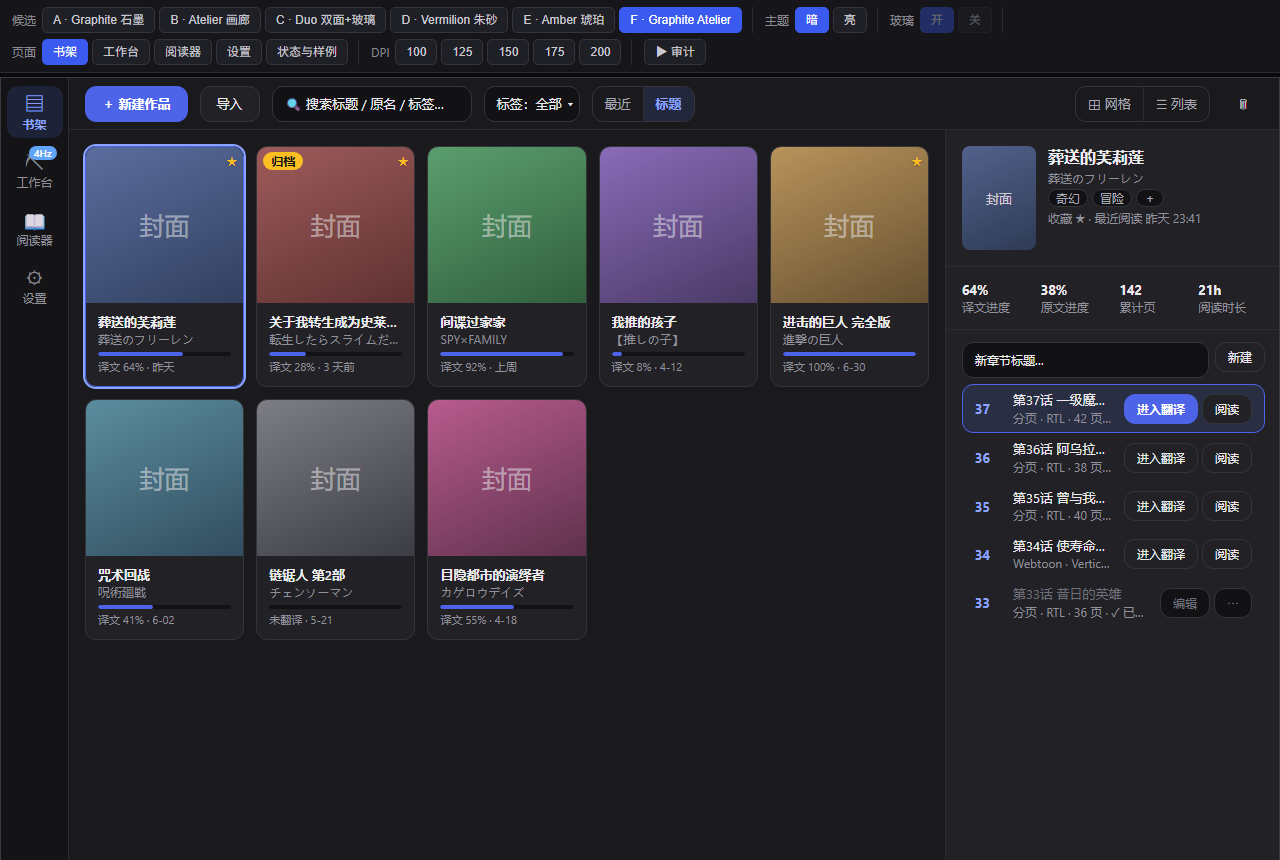
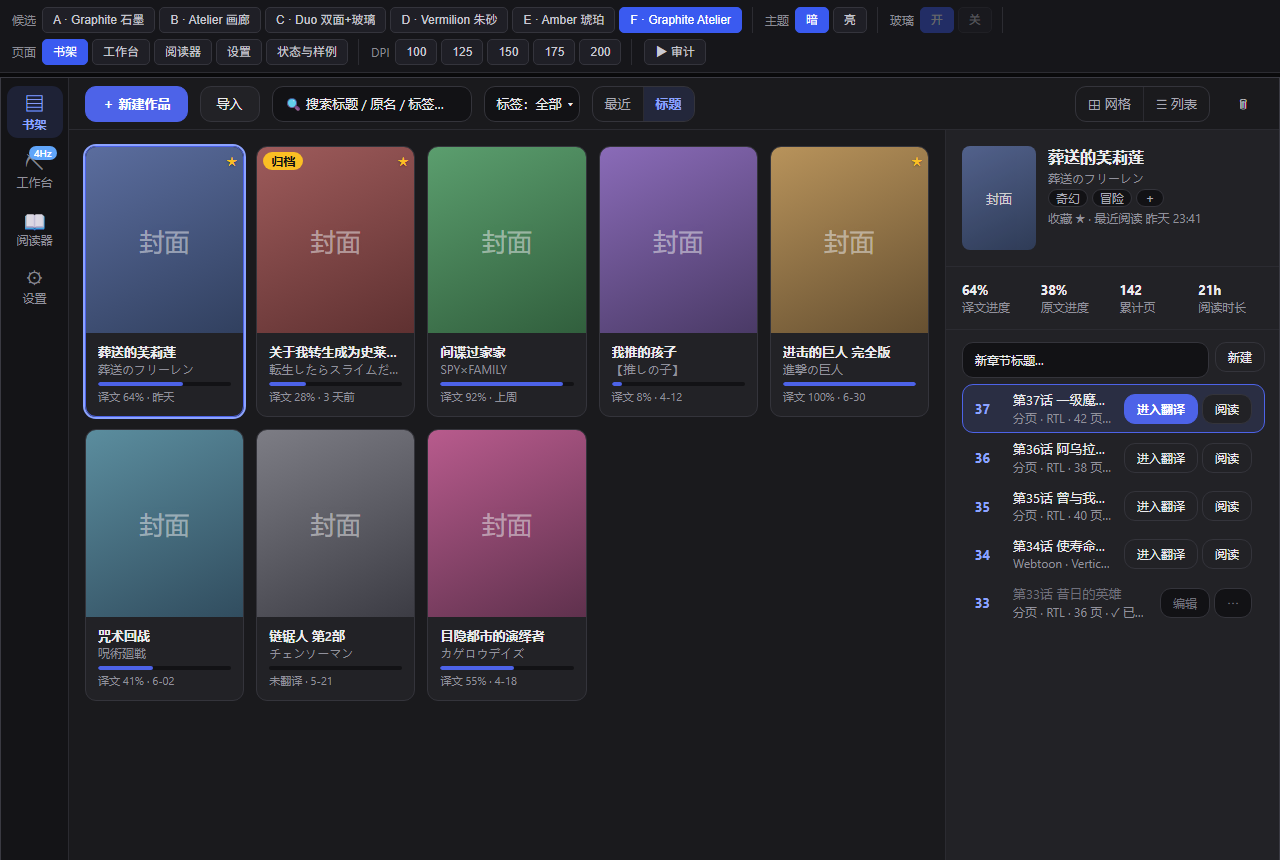
docs(TASK-059): R5 返修收 Review 04743a8 R4-001~R4-003（保持 in_review）
- R4-001: F 的 --card-w 132px→158px（B 档；IA 仅指浏览结构，书架单级仍继承 A）
- R4-001: export-tokens.py 将 card-w 并入 geometry（20→21 项），tokens-cand-{a..f}.json 全部重导，几何相等断言覆盖 card-w（F=A palette+B geometry incl card-w: OK）
- R4-002: 补 f-light-bookshelf.png，F 书架/工作台均有暗/亮两主题证据（截图 49→50）
- R4-003: export-tokens.py docstring 统一 {a..f}；判别脚本头改三个检测；删除 geom_sel 死变量
- 全量重跑：60 组合 ALL PASS（F 24/24，AUDIT_EXIT=0）；D1/D2/D3 全 FAIL（DISCRIM_EXIT=0）
- 契约更新：版本行 R5、§1/§6C 21 项口径、§11 切片映射、§14 DDR-10、§15 50 张清单
- Task/Handoff/STATUS 同步；src/**、tests/** 零改动；未 push

diff --git a/doc/design/ui-reference.html b/doc/design/ui-reference.html
@@ -439,7 +439,7 @@ body {
 [data-cand="c"] { --card-w:148px; }
 [data-cand="d"] { --card-w:150px; }
 [data-cand="e"] { --card-w:132px; }
-[data-cand="f"] { --card-w:132px; }  /* F 的书架 IA 继承 A（ND-1：不继承 B 的章节大卡） */
+[data-cand="f"] { --card-w:158px; }  /* ND-1：比例大小按 B，card-w 属几何随 B（Review R4-001）；书架 IA（单级浏览）仍继承 A */
 .bcard {
   border-radius:var(--rad-md); border:1px solid var(--border); background:var(--bg-panel);
   overflow:hidden; cursor:pointer; position:relative;

diff --git a/verification/TASK-059/export-tokens.py b/verification/TASK-059/export-tokens.py
@@ -1,7 +1,7 @@
 #!/usr/bin/env python3
 """TASK-059: 从 doc/design/ui-reference.html 导出机器可读令牌副本。
 
-HTML 是唯一视觉真值；本脚本生成 doc/design/tokens-cand-{a,b,c,d,e}.json。
+HTML 是唯一视觉真值；本脚本生成 doc/design/tokens-cand-{a..f}.json（六候选）。
 两者不一致时以 HTML 为准，重新运行本脚本即可再生成。
 用法：python verification/TASK-059/export-tokens.py
 """
@@ -44,11 +44,6 @@ def split_tokens(raw: dict) -> tuple[dict, dict]:
 
 def main() -> int:
     css = HTML.read_text(encoding="utf-8")
-    geom_sel = {
-        "a": '[data-cand="a"] {',
-        "b": '[data-cand="b"] {',
-        "c": '[data-cand="c"] {',
-    }
     # 密度块选择器与主题块共享前缀，用“不接 [data-mode”的锚定区分
     geom = {}
     for c in "abcdef":
@@ -60,6 +55,14 @@ def main() -> int:
             raise SystemExit(f"geometry block not found for {c}")
         geom[c] = {k: v.strip() for k, v in
                    re.findall(r"--([\w-]+)\s*:\s*([^;]+);?", ms[0].group(1))}
+        # card-w 定义在独立的单属性小方块（不含 --fs-base），单独提取后并入
+        # geometry，使 JSON 几何相等断言覆盖 card-w（Review R4-001）
+        cs = [m for m in pat.finditer(css)
+              if "--card-w" in m.group(1) and "--fs-base" not in m.group(1)]
+        if not cs:
+            raise SystemExit(f"card-w block not found for {c}")
+        geom[c]["card-w"] = re.findall(
+            r"--card-w\s*:\s*([^;]+);?", cs[0].group(1))[0].strip()
 
     for c in "abcdef":
         modes = {}

diff --git a/doc/tasks/TASK-059.md b/doc/tasks/TASK-059.md
@@ -39,9 +39,9 @@ integration_commit: null
 - [x] **AC ①（正面回答否决理由）**：逐条写清本轮如何回答 **R-1（视觉方向）/ R-2（布局与信息架构）/ R-3（太保守、没超出基线）**；不得只做措辞回应——每条的答案必须能在 AC ② 的候选方向里被指认。→ [契约](../contracts/UI_UX_GUI_DESIGN.md) §2，逐条指认到候选。
 - [x] **AC ②（2–3 个彼此不同的候选方向）**：交付 **2–3 个**候选，每个含：① 角色定位（服务谁、什么场景优先）② 完整令牌表（色彩/字号/间距/圆角/阴影，亮+暗）③ **至少 3 个页面**的关键视图（书架/工作台/阅读器或设置中的至少三个）④ 信息架构与页面内分区说明 ⑤ **代价与取舍**（实现成本、与现有 ViewModel 接口的冲突面、可访问性代价）。候选之间必须**在视觉语言或 IA 上有实质差异**（不是同一方案的三种密度）。→ A/B/C 三候选（契约 §3–§6 + `tokens-cand-*.json` + 每候选 5 页视图截图）；差异维度＝主题气质/密度/强调色/玻璃材质/书架 IA（C 两级浏览）/工作台 Inspector 层级（A 译文置顶）。**R2 增补（用户 2026-09-19 指示「再增加两种完全不一样的设计」，候选数 3→5）**：D 朱砂（顶栏导航+编辑部印刷，§6A）、E 琥珀（等宽表格+命令面板，§6B）——范式级差异。**R4 增补（用户 ND-1 裁决组合稿，候选数 5→6，DDR-9）**：F · Graphite Atelier（组合候选：A 色彩逐字面值 + B 几何逐项，IA 继承 A 不取 B 章节大卡；契约 §6C，ND-1 已选方向）。
 - [x] **AC ③（可打开的离线参考）**：每个候选都要有**可离线打开**的参考（单文件 HTML 或图片集），可被标注与截图；**允许复用** TASK-047 的标注回路与自检脚本（语法门/引用核对/无头截图+对比度审计）——**作为工具，不作为结论**。→ `doc/design/ui-reference.html` 单文件（评审 chrome 切换候选/主题/玻璃/DPI/页面/审计）；工具思路复用、方案内容零复用。
-- [x] **AC ④（硬事实沿用或显式推翻）**：DPI/最小窗口组合、文本对比度 ≥4.5:1、CJK 长文本与截断、状态矩阵（空/加载/错误/运行/未保存）、键盘可达性：要么沿用 TASK-047 §10 的量化结论，要么**显式推翻并给新证据**。→ 契约 §12 对照表：硬事实沿用、ui-baseline 色板作为目标方向显式推翻（授权内）；对比度 50 组合 × 22 对全 PASS（R2 含 2 处审计驱动修正；R3 补徽标真实合成底口径后统一加深亮色状态文字令牌，见契约 §7.2）；R4 组合候选 F 按 ND-1 重做全套审计：60 组合（6 候选 × 2 主题 × 5 视图）全 PASS，F 含 R3-001 扩展 2 对共 24 对（契约 §6C/§7.2）。
+- [x] **AC ④（硬事实沿用或显式推翻）**：DPI/最小窗口组合、文本对比度 ≥4.5:1、CJK 长文本与截断、状态矩阵（空/加载/错误/运行/未保存）、键盘可达性：要么沿用 TASK-047 §10 的量化结论，要么**显式推翻并给新证据**。→ 契约 §12 对照表：硬事实沿用、ui-baseline 色板作为目标方向显式推翻（授权内）；对比度 50 组合 × 22 对全 PASS（R2 含 2 处审计驱动修正；R3 补徽标真实合成底口径后统一加深亮色状态文字令牌，见契约 §7.2）；R4 组合候选 F 按 ND-1 重做全套审计：60 组合（6 候选 × 2 主题 × 5 视图）全 PASS，F 含 R3-001 扩展 2 对共 24 对（契约 §6C/§7.2）；R5 复跑同口径且 `card-w` 纳入几何断言（21 项，DDR-10）。
 - [x] **AC ⑤（待决项）**：列出需要用户裁决的产品问题（沿用并复核 Q-1~Q-10，可增删改）；**明确区分**"设计可自决"与"必须用户裁决"。→ 契约 §13：ND-1～ND-7（用户裁决）与设计可自决项分列；Q-1~Q-10 复核结论并入；Q-011 硬编码色映射在契约 §10 补齐。
-- [x] **AC ⑥（交付与流程）**：交付本轮契约（**替代** TASK-047 的契约，不是在其上补丁）、候选方向参考、`verification/TASK-059/**`（自检脚本 + 审计 JSON + 截图）、Handoff；经**非作者** Review（Codex）与集成后才能 done；**设计身份不自动授予 `src/**` 写权限**（实现另行释放实现 Task）。→ 契约新写（非补丁）；`verification/TASK-059/`（脚本+审计结果+49 截图（R1–R3 41 + R4 F 8）+令牌导出+判别脚本）；[Handoff](../handoffs/TASK-059-three-candidates.md)；`src/**` 零改动。
+- [x] **AC ⑥（交付与流程）**：交付本轮契约（**替代** TASK-047 的契约，不是在其上补丁）、候选方向参考、`verification/TASK-059/**`（自检脚本 + 审计 JSON + 截图）、Handoff；经**非作者** Review（Codex）与集成后才能 done；**设计身份不自动授予 `src/**` 写权限**（实现另行释放实现 Task）。→ 契约新写（非补丁）；`verification/TASK-059/`（脚本+审计结果+50 截图（R1–R3 41 + R4/R5 F 9）+令牌导出+判别脚本）；[Handoff](../handoffs/TASK-059-three-candidates.md)；`src/**` 零改动。
 
 ## 允许修改范围
 
@@ -60,8 +60,8 @@ integration_commit: null
 
 | 场景/AC | 计划命令或手工步骤 | 前提/环境 | 实际结果 | 证据 |
 |---|---|---|---|---|
-| AC ②③ 参考可加载 | 无头浏览器打开每个候选参考；桌面 1280×800 与 100/150/200% DPI 截图；检查溢出/重叠/控制台错误 | 仓库 base `4c81dca` + 无头 Chrome + Node（本切片不跑 pytest） | **executed**（R4 复跑）：语法门 OK；49 张截图（6 候选；含 DPI 125/150/200、玻璃开关与 F 任务详情工具窗）；60 组合审计 outside=0/clipped=0/**overlap=0（真实两两相交检测）** | [audit-result.txt](../../verification/TASK-059/audit-result.txt)（同日志含环境头/命令/`AUDIT_EXIT=0`）、[screenshots/](../../verification/TASK-059/screenshots/) |
-| AC ④ 硬事实 | 对比度审计（≥4.5:1，15 直底对 + 7 徽标 `*-soft` 真实合成底对）+ 判别力脚本（回退旧令牌应 FAIL、注入相交元素应 FAIL）+ CJK/截断/状态矩阵逐项截图 | 同上 + `TASK-012-py312` venv（导出脚本用） | **executed**（R4）：6 候选 × 2 主题 × 5 视图全 PASS——A–E 各 22 对、F 24 对（新增 R3-001 扩展对 `st-skip-direct/panel`=7.22、`ink/selected-row`=11.34，阈值 4.5:1）；判别 D1=`badge-warn/st-warn-t=4.22` FAIL、D2=`overlap=1` 检出、D3=回退 F 暗色 `--st-skip` → `st-skip-direct/panel=3.01` FAIL → 检测有判别力；CJK 竖排缺陷修复后复检 PASS | 同上 + [判别脚本](../../verification/TASK-059/discriminate-r001-r004.sh) + [契约 §7.2/§12](../contracts/UI_UX_GUI_DESIGN.md) |
+| AC ②③ 参考可加载 | 无头浏览器打开每个候选参考；桌面 1280×800 与 100/150/200% DPI 截图；检查溢出/重叠/控制台错误 | 仓库 base `4c81dca` + 无头 Chrome + Node（本切片不跑 pytest） | **executed**（R5 复跑）：语法门 OK；50 张截图（6 候选；F 含暗/亮书架与工作台、DPI 150、任务详情工具窗）；60 组合审计 outside=0/clipped=0/**overlap=0（真实两两相交检测）** | [audit-result.txt](../../verification/TASK-059/audit-result.txt)（同日志含环境头/命令/`AUDIT_EXIT=0`）、[screenshots/](../../verification/TASK-059/screenshots/) |
+| AC ④ 硬事实 | 对比度审计（≥4.5:1，15 直底对 + 7 徽标 `*-soft` 真实合成底对）+ 判别力脚本（回退旧令牌应 FAIL、注入相交元素应 FAIL）+ CJK/截断/状态矩阵逐项截图 | 同上 + `TASK-012-py312` venv（导出脚本用） | **executed**（R5 复跑，口径同 R4）：6 候选 × 2 主题 × 5 视图全 PASS——A–E 各 22 对、F 24 对（新增 R3-001 扩展对 `st-skip-direct/panel`=7.22、`ink/selected-row`=11.34，阈值 4.5:1）；判别 D1=`badge-warn/st-warn-t=4.22` FAIL、D2=`overlap=1` 检出、D3=回退 F 暗色 `--st-skip` → `st-skip-direct/panel=3.01` FAIL → 检测有判别力；CJK 竖排缺陷修复后复检 PASS | 同上 + [判别脚本](../../verification/TASK-059/discriminate-r001-r004.sh) + [契约 §7.2/§12](../contracts/UI_UX_GUI_DESIGN.md) |
 | AC ⑥ 文档完整性 | `git diff --check`；链接与 AC/Gap/待决项逐条核对 | 同上 | **executed**：`git diff --check` 退出码 0；契约链接/截图引用/JSON↔HTML 一致性交叉核对 ALL OK（R1 建立，R3 复核，R4 复核含 `tokens-cand-f.json` 断言 `F = A color palette + B geometry: OK`） | [Handoff 验证证据表](../handoffs/TASK-059-three-candidates.md) |
 
 ## 依赖、风险与阻塞
@@ -73,9 +73,9 @@ integration_commit: null
 
 ## 交付与运行记录
 
-- Handoff：[TASK-059-three-candidates](../handoffs/TASK-059-three-candidates.md)。Review：[TASK-059-db366da](../reviews/TASK-059-db366da.md)（Reviewer=`Codex`，非作者，`changes_requested`，R-001～R-006）→ R3 返修（head=`07397ac`）→ [TASK-059-07397ac](../reviews/TASK-059-07397ac.md)（分支 `agent/codex/TASK-059-review` @ `9d3b0f2`，`approved`，非阻塞 R3-001）→ **R4 组合候选 F（当前）**。
-- **最近状态（当前，唯一）**：2026-09-19 **R4 组合候选 F 交付，保持 `in_review`**。Review `07397ac` 复审 `approved`（唯一非阻塞 P2 = R3-001）后，用户作出 ND-1 裁决：配色/状态色/亮暗主题/视觉语言＝**A · Graphite**，字号/控件高/行高/间距/面板尺寸＝**B · Atelier**，IA＝**A**（不继承 B 章节大卡），不启用 C 玻璃/D 顶栏/E 命令面板。按契约 ND-1「组合稿必须重做全套一致性审计」条款交付：① `ui-reference.html` 新增候选 **F · Graphite Atelier**（几何块逐项取 B 的 20 项密度令牌、色板逐字面值取 A、书架 `--card-w` 取 A 档、无任何 C/D/E 覆写）；② 新增 `doc/design/tokens-cand-f.json`（42 色 × 2 主题 + 20 几何；python 断言 `F = A color palette + B geometry: OK`，glass `enabled=false`）；③ 解决 **R3-001**：`tokenPairs()` 仅 F 追加扩展对 `st-skip-direct/panel`（`--st-skip` 直接文本 × panel）与 `ink/selected-row`（选中行 `accent-soft` 叠 panel 合成底 × `--ink`），实测 **7.22 / 11.34 ≥ 4.5:1 PASS**，A–E 维持 22 对口径不变；④ 审计矩阵重跑 **60 组合（6 候选 × 2 主题 × 5 视图）ALL PASS**（F=24/24、outside/clipped/overlap=0，`AUDIT_EXIT=0`）；截图 41→49 张（+8 张 F，含 DPI 150 与任务详情工具窗）；⑤ 判别 **D1/D2/D3 全 FAIL（预期方向）**，D3=注入回退 F 暗色 `--st-skip` → `st-skip-direct/panel=3.01` 检出（`DISCRIM_EXIT=0`）；⑥ 契约全面更新（§3 六候选总览、§6C F 规格、§7/§8/§9/§10/§11 切片映射、§13 ND 状态、§14 DDR-9、§15 证据索引）。A–E 保留为候选档案；改动仍仅 `doc/**` + `verification/TASK-059/**`（`src/**`/`tests/**`/Schema/依赖零改动）。R4 head=本次提交。**待 Codex 复审 F（重点：R3-001 闭合是否成立、F=A+B 构成规则、60 组合证据）；ND-4/5/6/7 仍待用户裁决（ND-6 为 F 实现前待决）。**
-- 历史：2026-09-19 R2 交付完成（R1 交付 A/B/C 三候选，实现 head=`5578a01`、契约 head=`ddaf865`；用户在 R1 交付后追加指示「再增加两种完全不一样的设计」→ R2 增补 D · Vermilion 朱砂与 E · Amber 琥珀，R2 head=`dd455c0`（参考+证据）、`af91e06`（契约），候选总数 3→5（AC② 口径经用户指示扩展，DDR-8）；R2 证据＝审计矩阵 50 组合 ALL PASS + 41 张截图）。同日 Review `db366da` 判 `changes_requested`（R-001 徽标对比度审计方式错误、R-002 命令面板契约缺口、R-003 D/E 切片缺口、R-004 overlap 未实现、R-005 审计日志证据纪律、R-006 R1 残留）→ R3 返修（六条全 closed：徽标真实合成底审计+亮色状态令牌加深、命令面板契约 §6B、D/E 切片扩展、真实 overlap 检测、Git Bash+venv 口径重跑、计数残留清理；head=`07397ac`）→ Review `07397ac` `approved`（唯一 P2 R3-001：直接 `--st-skip` 文本未入审计，open 移交后续）→ R4。base=`4c81dca`、branch=`agent/zcode/TASK-059-ui-redesign`、worktree=`G:/CODEX/New Manga.worktrees/TASK-059-zcode`。
+- Handoff：[TASK-059-three-candidates](../handoffs/TASK-059-three-candidates.md)。Review：[TASK-059-db366da](../reviews/TASK-059-db366da.md)（`changes_requested`，R-001～R-006）→ R3 返修（head=`07397ac`）→ [TASK-059-07397ac](../reviews/TASK-059-07397ac.md)（`approved`，非阻塞 R3-001）→ R4 组合候选 F（head=`04743a8`）→ [TASK-059-04743a8](../reviews/TASK-059-04743a8.md)（分支 `agent/codex/TASK-059-review`，`changes_requested`，R4-001～R4-003）→ **R5 返修（当前）**。
+- **最近状态（当前，唯一）**：2026-09-19 **R5 返修交付，保持 `in_review`**。Review `04743a8` 判 `changes_requested`（R4-001 P1 / R4-002 P2 / R4-003 P3），按用户返修指令逐条处理：**R4-001** F 的书架卡片宽 `--card-w` 由 A 档 132px 改为 **B 档 158px**（ND-1「比例大小按 B」覆盖卡片宽度，IA 仅指浏览结构——书架单级浏览仍继承 A；契约 §6C 构成规则与 §11 切片映射同步），且 `card-w` 纳入 `tokens-cand-f.json` 几何相等断言：`export-tokens.py` 将独立小方块的 `--card-w` 提取并入 `geometry`（每候选 20→**21 项**），重导后断言 **`F = A color palette + B geometry (incl card-w): OK`**（f=158px=b、a=132px）；**R4-002** 补 `f-light-bookshelf.png`（F 截图 8→9 张，总 **49→50**），F 书架+工作台均有暗/亮两主题证据（已目检）；**R4-003** `export-tokens.py` docstring 统一为 `{a..f}`、判别脚本头改「三个检测」、删除未使用的 `geom_sel` 死变量。**全量重跑**：60 组合（6 候选 × 2 主题 × 5 视图）**ALL PASS**（F 全组合 24/24、outside/clipped/overlap=0，`AUDIT_EXIT=0`）；判别 **D1/D2/D3 全 FAIL（预期方向）**，D3=`st-skip-direct/panel=3.01` 检出（`DISCRIM_EXIT=0`）；契约更新（版本行 R5、§1/§6C 21 项口径、§11 切片映射、§14 **DDR-10**、§15 50 张清单与断言文字）。改动仍仅 `doc/**` + `verification/TASK-059/**`（`src/**`/`tests/**`/Schema/依赖零改动）。R5 head=本次提交。**待 Codex 复审 R5；ND-4/5/6/7 仍待用户裁决（ND-6 为 F 实现前待决，本轮不动）。**
+- 历史：2026-09-19 R2 交付完成（R1 交付 A/B/C 三候选，实现 head=`5578a01`、契约 head=`ddaf865`；用户在 R1 交付后追加指示「再增加两种完全不一样的设计」→ R2 增补 D · Vermilion 朱砂与 E · Amber 琥珀，R2 head=`dd455c0`（参考+证据）、`af91e06`（契约），候选总数 3→5（AC② 口径经用户指示扩展，DDR-8）；R2 证据＝审计矩阵 50 组合 ALL PASS + 41 张截图）。同日 Review `db366da` 判 `changes_requested`（R-001 徽标对比度审计方式错误、R-002 命令面板契约缺口、R-003 D/E 切片缺口、R-004 overlap 未实现、R-005 审计日志证据纪律、R-006 R1 残留）→ R3 返修（六条全 closed：徽标真实合成底审计+亮色状态令牌加深、命令面板契约 §6B、D/E 切片扩展、真实 overlap 检测、Git Bash+venv 口径重跑、计数残留清理；head=`07397ac`）→ Review `07397ac` `approved`（唯一 P2 R3-001：直接 `--st-skip` 文本未入审计，open 移交后续）→ R4（用户 ND-1 裁决组合候选 F 交付，head=`04743a8`：A 色板 + B 几何 20 项、R3-001 以 24 对闭合、49 截图、DDR-9）→ Review `04743a8` `changes_requested`（R4-001 card-w 规格偏差 P1、R4-002 缺 F 亮色书架截图 P2、R4-003 脚本说明残留 P3）→ R5。base=`4c81dca`、branch=`agent/zcode/TASK-059-ui-redesign`、worktree=`G:/CODEX/New Manga.worktrees/TASK-059-zcode`。
 
 ## 参考输入（用户 2026-09-19 会话；**不改变本 Task 的 AC、允许/禁止范围与授权**）
 

diff --git a/doc/STATUS.md b/doc/STATUS.md
@@ -4,7 +4,7 @@
 
 | 项目 | 状态 |
 |---|---|
-| 2026-09-19 TASK-059 ND-1 用户裁决 | 用户选择组合方向：**配色与视觉令牌按 A · Graphite，控件高度/行高/间距/字号/面板尺寸等几何比例按 B · Atelier**。其余 IA/视觉语言仍以 A 为准；**不继承 B 的章节大卡 IA，也不启用 C 玻璃、D 顶栏或 E 命令面板**。该组合按契约 ND-1 的口径**必须重新做一致性审计**（令牌、对比度、DPI、五视图截图、CJK/截断、overlap），不能直接把 A/B 两份候选拼成实现规范。→ 组合候选 **F · Graphite Atelier 已由 ZCode 交付**（契约 §6C/DDR-9）：审计 **60 组合（6 候选 × 2 主题 × 5 视图）ALL PASS**（F 24 对，含 R3-001 扩展对实测 7.22/11.34）、判别 D1/D2/D3 全 FAIL（预期方向）、49 张截图；`src/**`/`tests/**` 零改动。TASK-059 保持 R4 `in_review`（前次 Review `07397ac` `approved`）。未选择 C/D/E；**下一步＝Codex 复审 F → Codex 集成**；实现 Task 在 F 通过集成前不释放；ND-4/5/6/7 仍待用户裁决（ND-6 为 F 实现前待决）。 |
+| 2026-09-19 TASK-059 ND-1 用户裁决 | 用户选择组合方向：**配色与视觉令牌按 A · Graphite，控件高度/行高/间距/字号/面板尺寸等几何比例按 B · Atelier**。其余 IA/视觉语言仍以 A 为准；**不继承 B 的章节大卡 IA，也不启用 C 玻璃、D 顶栏或 E 命令面板**。该组合按契约 ND-1 的口径**必须重新做一致性审计**，不能直接把 A/B 两份候选拼成实现规范。→ 组合候选 **F · Graphite Atelier 已交付并完成一轮返修**：R4 @`04743a8` 交付后 Review `04743a8` 判 `changes_requested`（R4-001 card-w 应随 B / R4-002 缺亮色书架截图 / R4-003 脚本说明残留）→ **R5 @本次提交**：`--card-w` 改 **B 档 158px**（IA 仅指浏览结构）、`card-w` 纳入几何断言（21 项，`F = A color palette + B geometry (incl card-w): OK`）、补 `f-light-bookshelf.png`（共 **50 张**截图）、脚本说明统一 a–f/D1–D3；重跑 60 组合 **ALL PASS**（F 24/24）+ D1/D2/D3 判别 + R3-001 扩展对（7.22/11.34）口径不变（契约 §6C/DDR-10）。`src/**`/`tests/**` 零改动。TASK-059 保持 R5 `in_review`。未选择 C/D/E；**下一步＝Codex 复审 R5 → Codex 集成**；实现 Task 在 F 通过集成前不释放；ND-4/5/6/7 仍待用户裁决（ND-6 为 F 实现前待决，本轮未动）。 |
 | 2026-09-19 TASK-061 集成 | [TASK-061](tasks/TASK-061.md) 已集成并收口 **`done`**（integration `0e25764`，`git merge --no-ff agent/zcode/TASK-061-connection-eviction` @`ffdc47d`；base `6cb0afb`）。Reviewer＝**Qoder（非作者）**，Review [TASK-061-067e432](reviews/TASK-061-067e432.md)：`067e432` → `changes_requested`（仅证据台账两条，实现零返工）→ `ffdc47d` → **`approved`**（两条红绿由 Reviewer 自有探针复算：修前 junction 真删 `exists: False`／修后 typed 拒绝且存活；修前整文件 `EXIT=1` 真退出）。集成后全仓 **930 passed / 0 skipped / EXIT=0（930 collected）**（Reviewer 口径；本机 PowerShell 口径 924 passed / 6 skipped，6 条＝既有 `tests/network` `openssl unavailable`，总数一致）。**TASK-057 前置①自此可判定**＝`workbench.shutdown() is True and not services.conn.any_in_transaction()`，**但按 R-004 是快照而非准入闸门**（restore 期间须自行拒绝 startRun）。仍 open：R-003/R-004/R-005/R-006/R-007(i)/R-008 + N-002~N-004（建议 R-004+R-005 并入 TASK-057，其余与 TASK-062 残留合成一个 docs+tests 微切片）。**本行是权威记录**：下文「阶段」行中的 905/6 与基线 `0bb1e6c` 是窗口收口前口径，未含本切片。 |
 | 2026-09-19 TASK-059 改派 | 用户指示把 [TASK-059](tasks/TASK-059.md) 交给 **ZCode**。Owner 由 Qoder 改为 `ZCode`；Reviewer 仍为 `Codex`（非作者）；base=`4c81dca`、branch=`agent/zcode/TASK-059-ui-redesign`、worktree=`G:/CODEX/New Manga.worktrees/TASK-059-zcode`。原 Qoder 分支/worktree `agent/qoder/TASK-059-ui-redesign` / `G:/CODEX/New Manga.worktrees/TASK-059-qoder` 在改派前无实施提交，现仅留档且不得作为交付；AC、允许/禁止范围与授权不变。**本行是 Owner 权威记录；后续阶段行中的“TASK-059 属 Qoder”为改派前历史口径。** |
 | 2026-09-19 TASK-059 交付置 in_review | ZCode 按用户开工指令完成 TASK-059 设计交付并置 `in_review`（head 见 [Handoff](handoffs/TASK-059-three-candidates.md)：R1 实现 `5578a01`、契约 `ddaf865`）。交付＝**A/B/C 三个实质不同的候选方向**（契约 [UI_UX_GUI_DESIGN](contracts/UI_UX_GUI_DESIGN.md) §3–§6；A 暗色工作室 / B 亮色画廊 / C 双面+玻璃）+ 离线参考 `doc/design/ui-reference.html` + 机器可读令牌 `doc/design/tokens-cand-*.json` + `verification/TASK-059/**`（对比度/溢出审计 ALL PASS、截图；HTML/Chromium 口径，非 Qt）。`src/**`、`tests/**`、D01～D08、ui-baseline 零改动；未 push。**下一步＝Codex 非作者 Review → 用户裁决候选方向（契约 §13 ND-1～ND-3）→ Codex 集成；候选选择前不释放任何 UI 实现 Task。** |

diff --git a/doc/handoffs/TASK-059-three-candidates.md b/doc/handoffs/TASK-059-three-candidates.md
@@ -3,7 +3,7 @@ task_id: TASK-059
 author: ZCode
 recipient: Codex（Reviewer，非作者）
 base_commit: 4c81dca6186f9b47f2771e5033a5d6ecfa986dd6
-delivery_head: 5578a01（R1 参考+证据） / ddaf865（R1 契约） / dd455c0（R2 参考+证据） / af91e06（R2 契约） / 07397ac（R3 返修：审计与令牌修正+文档收口） / 本次提交（R4 组合候选 F：Graphite Atelier + 全量重审计）
+delivery_head: 5578a01（R1 参考+证据） / ddaf865（R1 契约） / dd455c0（R2 参考+证据） / af91e06（R2 契约） / 07397ac（R3 返修） / 04743a8（R4 组合候选 F） / 本次提交（R5 返修：card-w 随 B + 几何断言纳入 card-w + 50 张截图）
 status: in_review
 ---
 
@@ -115,3 +115,17 @@ R3 判别力证据（Q-009，同日志入库）：D1 回退 A 亮色 warn 旧令
 **改动范围**：仍仅 `doc/**`（契约/参考 HTML/tokens-f JSON/Task/Handoff/STATUS 台账行）+ `verification/TASK-059/**`（审计与判别脚本、日志、49 截图）；`src/**`、`tests/**`、Schema、依赖、D01～D08、ui-baseline 零改动；未 push。
 
 **Reviewer（Codex）复审建议**：① 核对 R3-001 闭合是否成立（两对扩展的定义与实测值、D3 判别）；② 核对 F 构成规则（`tokens-cand-f.json` 与 A/B JSON 的断言可独立复算）；③ `git diff 07397ac..HEAD -- doc/contracts/` 对照 §6C/§15。复审通过后本 Task 可进入集成（候选裁决已由 ND-1 完成，ND-4/5/6/7 仍待用户，其中 ND-6 为 F 实现前待决）。
+
+## R5 返修记录（2026-09-19，Review `TASK-059-04743a8` 判 `changes_requested` 之后）
+
+Reviewer=Codex（非作者），固定 base=`07397ac`、被审 head=`04743a8`。以下为逐 finding disposition；全部改动仍只落在 `doc/**` 与 `verification/TASK-059/**`（`src/**`/`tests/**`/Schema/依赖零改动）。
+
+| Finding | 处置 | 证据 |
+|---|---|---|
+| R4-001（P1：F 的 `--card-w` 取 A 档 132px，违背 ND-1「比例大小按 B」；几何断言被事后缩小到 20 项子集） | **closed**：① `ui-reference.html` F 卡片宽 132px → **158px**（B 档；ND-1 的 IA 例外仅指浏览结构——书架单级 vs B 的两级，不含尺寸）；② `export-tokens.py` 将独立小方块的 `--card-w` 提取并入 `geometry`（每候选 20→**21 项**），`tokens-cand-{a..f}.json` 全部重导，几何相等断言自此覆盖 `card-w`；③ 契约同步：§6C 构成规则 2/3 改写（几何 21 项、IA=浏览结构非尺寸）、§11 F 切片映射 `--card-w` 158px、§14 新增 **DDR-10**、§15 断言文字加 `(incl card-w)` | 重导断言 `F = A color palette + B geometry (incl card-w): OK`（f=158px=b、a=132px）；独立复算路径=读 JSON `f['geometry']==b['geometry']` |
+| R4-002（P2：缺 `f-light-bookshelf.png`，F 亮色书架无法独立复核） | **closed**：`run-reference-audit.sh` F 段新增 `shot f-light-bookshelf`；全量重拍后入库。F 截图 8→**9** 张，总数 49→**50**；F 的书架与工作台均具备暗/亮两主题证据 | `screenshots/f-light-bookshelf.png`（已目检：亮色书架 + 158px 卡片网格，无叠盖）；契约 §15 截图清单（50 张） |
+| R4-003（P3：`export-tokens.py` docstring 仍写 `{a,b,c,d,e}`；判别脚本仍写「两个检测/两个临时副本」；未使用变量 `geom_sel`） | **closed**：docstring → `{a..f}`（六候选）；判别脚本头 → 「派生三个临时判别副本」「判定通过 = 三个检测各至少报出一次 FAIL」；删除 `geom_sel` 死变量（其功能早已由正则 `finditer` 取代） | 两脚本现行头注释；`grep geom_sel` 零命中 |
+
+**全量证据重跑（R5 head）**：审计矩阵 **60 组合 ALL PASS**（F 全组合 `contrast=24/24 outside=0 clipped=0 overlap=0`，`AUDIT_EXIT=0`）；判别 **D1/D2/D3 全 FAIL（预期方向）**——D1 `badge-warn/st-warn-t=4.22`、D2 `overlap=1`、D3 `st-skip-direct/panel=3.01`（`DISCRIM_EXIT=0`）；**50 张截图**；契约 §15 全量刷新。R3-001 的两对扩展（7.22/11.34）口径不变。
+
+**Reviewer（Codex）复审建议**：① 独立复算 `f['geometry']==b['geometry']`（21 项含 card-w=158px）；② 目检 `f-light-bookshelf.png` / `f-dark-bookshelf.png`（R4-001 视觉面）；③ `git diff 04743a8..HEAD` 全部落在 `doc/**` 与 `verification/TASK-059/**`。
